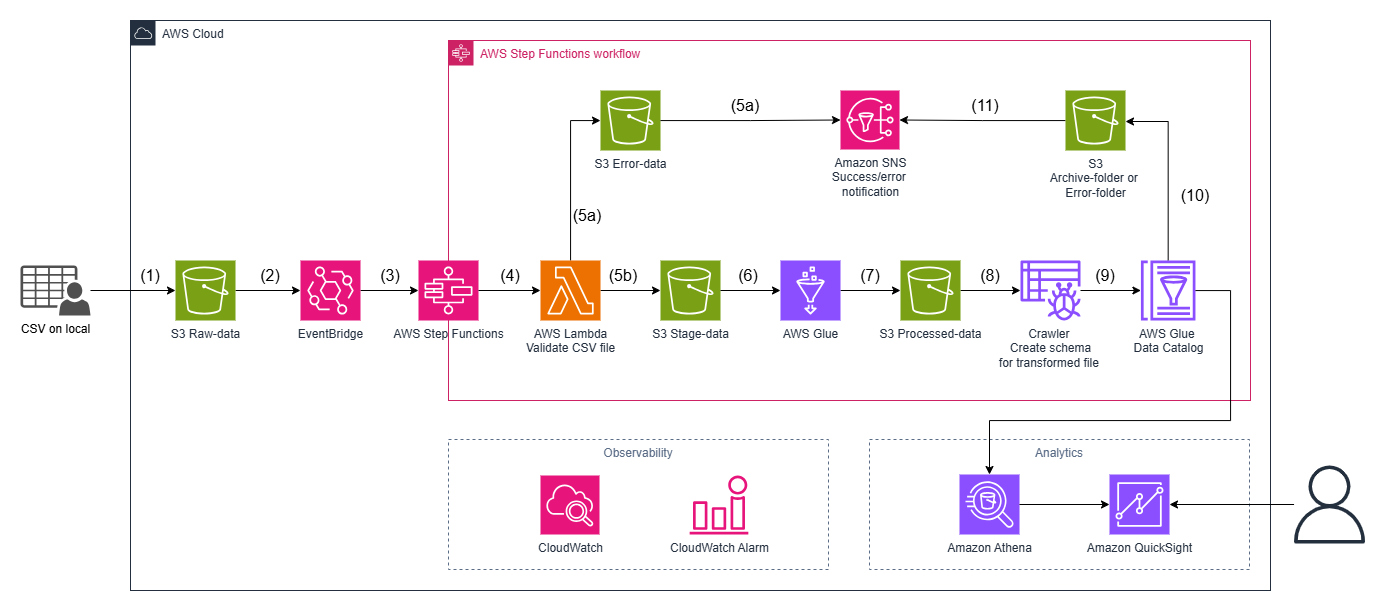
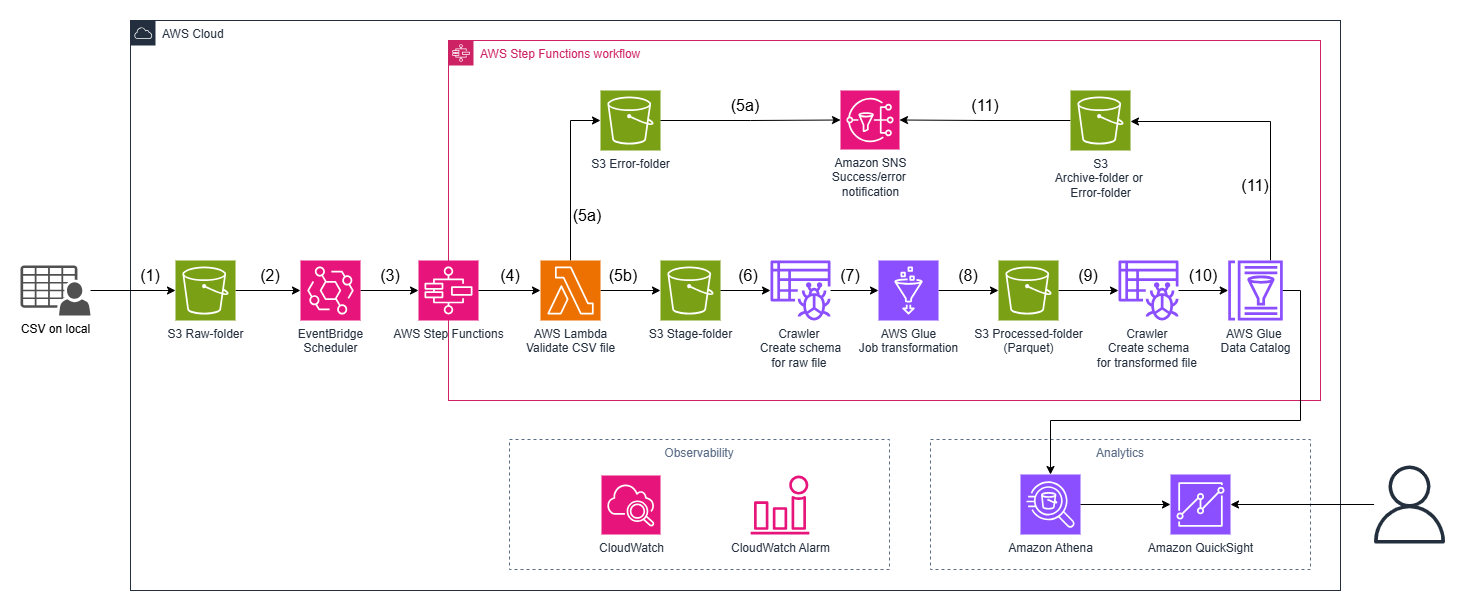
commit part1

diff --git a/docs/architecture.md b/docs/architecture.md
@@ -1,228 +1,246 @@
+# Architecture Documentation
+## ShopMart Sales Data Pipeline on AWS
+
+---
+
 # Part 1: Architecture Design
 
 ## Task 1.1: Architecture Diagram
 
 ### Architecture Overview
 
-The pipeline is designed as a fully event-driven, serverless architecture on AWS. It automatically processes CSV sales files uploaded by 50 stores each morning, validates data quality, transforms and aggregates the data, and makes results available for BI consumption — replacing the manual Excel process entirely.
+The ShopMart Sales Data Pipeline is a fully automated, event-driven data processing system built on AWS. It replaces the manual Excel-based workflow previously performed by the Business Intelligence team — reducing daily processing time from 3–4 hours to near real-time.
 
-**Diagram:** See `docs/architecture-diagram.png`
+The pipeline ingests raw CSV sales files uploaded by 50 stores each morning, validates and transforms the data, stores results in an analytics-optimized format, and exposes them to BI tools for querying and visualization. The entire orchestration is managed by AWS Step Functions, ensuring reliable sequencing, error handling, and observability across all stages.
 
----
+![architecture-diagram](architecture-diagram.png)
 
-### Data Flow: End-to-End
-
-```
-CSV on local
-    │
-    │ (1) Manual/automated upload
-    ▼
-S3 Raw-data bucket
-    │
-    │ (2) S3 Event Notification
-    ▼
-Amazon EventBridge
-    │
-    │ (3) Rule triggers workflow
-    ▼
-AWS Step Functions (Orchestrator)
-    │
-    │ (4) Invoke validation step
-    ▼
-AWS Lambda — Validate CSV file
-    │
-    ├─── (5a) Invalid file ──► S3 Error-data bucket
-    │                               │
-    │                               └──► Amazon SNS (error notification)
-    │
-    └─── (5b) Valid file ───► S3 Stage-data bucket
-                                    │
-                                    │ (6) Trigger ETL job
-                                    ▼
-                               AWS Glue (ETL Job)
-                                    │
-                                    │ (7) Write processed output
-                                    ▼
-                          S3 Processed-data bucket
-                                    │
-                                    │ (8) Trigger crawler
-                                    ▼
-                     Glue Crawler — Create/update schema
-                                    │
-                                    │ (9) Register table metadata
-                                    ▼
-                          AWS Glue Data Catalog
-                                    │
-                          ┌─────────┴──────────┐
-                          │ (Analytics layer)   │
-                          ▼                     ▼
-                    Amazon Athena        Amazon QuickSight
-                                    │
-                          (10) SNS success notification
-```
+**Key design principles:**
+- Event-driven ingestion triggered automatically on file upload
+- Separation of raw, staged, processed, and error data at the storage layer
+- Centralized orchestration via Step Functions for auditability and retry logic
+- Schema cataloging via AWS Glue for Athena compatibility
+- Observability through CloudWatch metrics, alarms, and SNS alerting
 
 ---
 
-### AWS Services Selection
+### AWS Services Used
 
-| Step | Service | Reason |
-|------|---------|--------|
-| **Ingestion** | **Amazon S3 (Raw)** | Durable, scalable object storage. Native event notification support. Cost-effective for storing raw CSV files with lifecycle policies. |
-| **Event trigger** | **Amazon EventBridge** | Decouples the S3 upload event from the processing workflow. Supports fine-grained filtering (e.g., only `.csv` files matching `store_*` pattern), retry policies, and dead-letter queues — more robust than direct S3→Lambda triggers for orchestration. |
-| **Orchestration** | **AWS Step Functions** | Manages the multi-step workflow (validate → transform → notify) with built-in error handling, retries, and state visibility. Avoids chaining Lambda functions directly, which is fragile and hard to monitor. |
-| **Validation** | **AWS Lambda** | Lightweight, fast execution for schema validation and data quality checks. Stateless and cost-efficient for short-lived tasks (< 15 min). Ideal for the validation step which does not require heavy compute. |
-| **Staging** | **Amazon S3 (Stage)** | Temporary holding area for validated files before ETL. Separates concerns between validation and transformation. |
-| **ETL / Transform** | **AWS Glue** | Managed Spark environment suited for processing 50 files × up to 5,000 rows. Handles deduplication, aggregation, and Parquet conversion natively. Scales automatically without managing servers. See ADR-002. |
-| **Processed storage** | **Amazon S3 (Processed)** | Stores output in Parquet format partitioned by date. Optimized for analytical queries via Athena. |
-| **Error storage** | **Amazon S3 (Error)** | Isolates bad records for auditing and reprocessing. Keeps the processed bucket clean. |
-| **Schema registry** | **AWS Glue Crawler + Data Catalog** | Automatically infers and registers the schema of processed Parquet files. Enables Athena and QuickSight to query data without manual DDL. |
-| **Query layer** | **Amazon Athena** | Serverless SQL on S3. No infrastructure to manage. Pay-per-query model is cost-efficient for BI team ad-hoc queries. |
-| **Visualization** | **Amazon QuickSight** | Native AWS BI tool with direct Athena integration. Supports scheduled dashboard refresh aligned with the daily pipeline run. |
-| **Notifications** | **Amazon SNS** | Sends success/failure alerts to the BI team via email or SMS. Triggered by Step Functions on both error paths and successful completion. |
-| **Observability** | **CloudWatch + CloudWatch Alarms** | Centralized logging for Lambda and Glue jobs. Alarms on error rates, job duration, and DLQ depth. |
+| Service | Purpose |
+|---|---|
+| **Amazon S3** | Multi-stage object storage: raw ingestion, staging, processed output, error isolation, and archiving |
+| **Amazon EventBridge Scheduler** | Triggers the Step Functions workflow on a scheduled basis aligned with the store upload window (6:00–8:00 AM daily) |
+| **AWS Step Functions** | Orchestrates the end-to-end pipeline workflow — sequencing Lambda, Glue, and Crawler steps with built-in error handling and retry |
+| **AWS Lambda** | Validates CSV file schema and data quality before processing; routes files to stage or error folder |
+| **AWS Glue (ETL Job)** | Performs data transformation: deduplication, null handling, `line_revenue` computation, and aggregation |
+| **AWS Glue Crawler** | Automatically infers and registers schema for both raw and transformed datasets into the Glue Data Catalog |
+| **AWS Glue Data Catalog** | Central metadata repository enabling Athena to query processed Parquet data without manual schema definition |
+| **Amazon SNS** | Sends success/error notifications to the BI team when pipeline completes or encounters critical failures |
+| **Amazon Athena** | Serverless SQL query engine over processed Parquet data in S3; used by analysts and BI tools |
+| **Amazon QuickSight** | BI visualization layer connecting to Athena for dashboards on daily revenue, top products, and payment metrics |
+| **Amazon CloudWatch** | Collects logs and metrics from Lambda, Glue, and Step Functions for operational monitoring |
+| **CloudWatch Alarms** | Triggers alerts on anomalies such as job failures, high error rates, or missing file uploads |
+
+---
+
+### Data Flow
+
+**1. Ingestion**
+
+1. Store staff upload CSV files from local systems to **S3 Raw-folder** following the naming convention `store_{store_id}_{YYYYMMDD}.csv`.
+2. **EventBridge Scheduler** fires at the configured time window (post 8:00 AM) to trigger the **AWS Step Functions** workflow, ensuring all store files have been uploaded before processing begins.
+3. Step Functions initiates the pipeline orchestration.
+
+**2. Validation & Staging**
+
+4. **AWS Lambda** is invoked to validate each CSV file — checking schema correctness (required columns, data types), detecting missing values, duplicate `order_id` entries, and negative quantities.
+5. Based on validation outcome:
+   - **(5a)** Files with critical schema errors are moved to **S3 Error-folder** and an **Amazon SNS** notification is sent to alert the BI team.
+   - **(5b)** Files passing validation are moved to **S3 Stage-folder** for downstream processing.
+
+**3. Processing**
+
+6. **AWS Glue Crawler** scans the Stage-folder and creates/updates the schema for raw files in the **Glue Data Catalog**.
+7. **AWS Glue ETL Job** reads staged data and performs:
+   - Removal of duplicate records
+   - Handling of missing values (null imputation or rejection)
+   - Computation of `line_revenue = quantity × unit_price`
+   - Aggregation of daily revenue, orders per customer, and payment success rate
+   - Separation of clean records from bad records
+8. Clean transformed data is written to **S3 Processed-folder** in **Parquet format** (columnar, compressed — optimized for Athena queries), partitioned by date using the path structure `processed/year=YYYY/month=MM/day=DD/`. This enables Athena partition pruning — queries scoped to a specific date range scan only the relevant partitions, reducing both query latency and cost.
+
+**4. Storage & Cataloging**
+
+9. A second **AWS Glue Crawler** scans the Processed-folder and registers the transformed schema in the **Glue Data Catalog**.
+10. The **Glue Data Catalog** makes the processed dataset queryable via Athena without manual DDL.
+11. After pipeline completion, **all files are moved out of the Raw-folder** — leaving it empty and ready for the next day's uploads:
+   - Files that passed validation and were successfully processed → moved to **S3 Archive-folder**
+   - Files that failed validation → moved to **S3 Error-folder**
+
+   SNS sends a final pipeline status notification. The Raw-folder will be empty after each run, ensuring no file is accidentally reprocessed on the next scheduled execution.
+
+**5. Consumption**
+
+- **Amazon Athena** queries the Parquet data in S3 Processed-folder using the Glue Data Catalog schema — enabling ad-hoc SQL analysis by the BI team.
+- **Amazon QuickSight** connects to Athena as a data source to render dashboards: daily revenue trends, top-selling products, payment success rates per store.
+
+**6. Observability**
+
+- **CloudWatch** aggregates logs from Lambda (validation errors), Glue (job metrics), and Step Functions (execution history).
+- **CloudWatch Alarms** monitor for job failures, elevated bad-record rates, and missing file uploads — triggering SNS alerts to the operations team.
 
 ---
 
 ## Task 1.2: Architecture Decision Records (ADRs)
 
-### ADR-001: Use Amazon EventBridge as the Pipeline Trigger
+---
+
+### ADR-1: Use Amazon EventBridge Scheduler for Daily Pipeline Trigger
 
 **Context:**
-The pipeline must start automatically whenever a new CSV file is uploaded to S3. With 50 stores uploading files in a 2-hour window (6:00–8:00 AM), the trigger mechanism needs to be reliable, filterable, and decoupled from the processing logic. A direct S3 event notification to Lambda or Step Functions is possible but tightly couples storage to compute.
+The pipeline must be triggered automatically once all 50 stores have completed their file uploads. The upload window is 6:00–8:00 AM daily. Triggering too early risks processing incomplete data; triggering on each individual file upload would cause 50 separate pipeline executions per day, increasing cost and complexity. A single, time-based trigger post-upload window is the most reliable approach.
 
 **Decision:**
-Use Amazon EventBridge with an S3 event source rule to trigger the Step Functions workflow. The rule filters on `s3:ObjectCreated:*` events where the object key matches the pattern `store_*_*.csv`, ensuring only valid store files initiate the pipeline.
+Use **Amazon EventBridge Scheduler** to trigger the AWS Step Functions execution once daily at a fixed time after the upload window closes (e.g., 8:15 AM). This ensures all store files are present in S3 Raw-folder before the pipeline begins, and consolidates processing into a single daily execution.
 
 **Alternatives Considered:**
-
-| Alternative | Reason Rejected |
-|-------------|-----------------|
-| S3 → Lambda (direct trigger) | Tightly couples S3 to Lambda. No built-in filtering by key pattern at the event level. Harder to add routing logic later. |
-| S3 → SQS → Lambda | Adds operational overhead. SQS is better suited when consumers need to pull at their own pace; here we want immediate push-based triggering. |
-| Scheduled EventBridge rule (cron) | Polling-based approach. Would process all files at a fixed time rather than reacting to each upload. Increases latency and complicates partial-failure handling. |
+- **S3 Event Notification → Lambda trigger on each upload:** Would fire 50 times per day (once per file), creating 50 independent pipeline runs. Difficult to coordinate aggregation across all stores and increases Step Functions execution costs.
+- **Amazon EventBridge Rules (event-based):** Can react to S3 PutObject events but requires additional logic to determine when all 50 files have arrived — adding complexity without clear benefit over a scheduled approach.
+- **AWS Lambda scheduled via CloudWatch Events (legacy):** Functionally equivalent but EventBridge Scheduler is the modern replacement with better timezone support, flexible scheduling expressions, and built-in retry on failed invocations.
 
 **Consequences:**
-- ✅ Loose coupling — S3 and Step Functions are independent; either can be replaced without affecting the other.
-- ✅ Fine-grained filtering — only files matching the naming convention trigger the pipeline, preventing accidental triggers from unrelated uploads.
-- ✅ Built-in retry and dead-letter queue support on the EventBridge rule.
-- ⚠ Slight added latency (~1–2 seconds) compared to a direct S3 trigger, which is acceptable given the batch nature of the workload.
-- ⚠ EventBridge has a limit of 300 rules per event bus by default — not a concern at 50 stores but worth noting for future scale.
+- Simple, predictable trigger with no dependency on individual file arrival events.
+- If a store uploads late (after 8:00 AM), their file will be missed in the scheduled run — requires a manual re-trigger or a separate late-file handling process.
+- EventBridge Scheduler supports timezone-aware cron expressions, making it straightforward to align with local business hours.
+- Failed invocations (e.g., IAM permission issues) are retried automatically by EventBridge Scheduler and logged to CloudWatch.
 
 ---
 
-### ADR-002: Use AWS Glue Instead of Lambda for ETL Processing
+### ADR-2: Store Processed Data in Parquet Format on S3
 
 **Context:**
-After validation, each CSV file must be cleaned (deduplication, null handling), enriched (`line_revenue = quantity * unit_price`), aggregated (daily revenue, top products, payment success rate), and written to S3 in an analytics-friendly format. Lambda has a 15-minute execution limit and 10 GB memory cap, which may be insufficient for large files (up to 5,000 rows × 50 files = 250,000 rows/day) and complex aggregations.
+The BI team needs to run analytical queries (daily revenue, top products, payment success rate) over data accumulated from 50 stores. The output format must be compatible with Athena and QuickSight, and must support efficient querying without full table scans.
 
 **Decision:**
-Use AWS Glue (PySpark ETL job) for the transformation step. Glue provides a managed Apache Spark environment that scales horizontally, supports native Parquet output, and integrates directly with the Glue Data Catalog for automatic schema registration.
+Write all processed output to **Amazon S3 in Apache Parquet format**, partitioned by `order_date` and `store_id`. Register the schema in **AWS Glue Data Catalog** for Athena access.
 
 **Alternatives Considered:**
-
-| Alternative | Reason Rejected |
-|-------------|-----------------|
-| AWS Lambda (Python + pandas) | 15-minute timeout and memory limits are risky for large files. Pandas is not distributed — cannot scale horizontally. Dependency packaging (pandas, pyarrow) adds complexity. |
-| AWS EMR | Significantly higher cost and operational overhead for this data volume. Cluster startup time (3–5 min) adds latency. Overkill for 250K rows/day. |
-| AWS Glue DataBrew | Visual, no-code tool — less flexible for custom aggregation logic. Cannot be version-controlled as cleanly as a PySpark script. |
-| ECS / Fargate (containerized Python) | More control but requires container management, ECR, and task definition maintenance. No native Data Catalog integration. |
+- **CSV in S3:** Human-readable but inefficient for analytical queries — no columnar compression, no predicate pushdown. Athena costs scale with data scanned.
+- **Amazon RDS / Aurora:** Relational databases support SQL queries but are not cost-effective for append-only analytical workloads. Requires schema management and ongoing instance costs.
+- **Amazon Redshift:** Excellent for large-scale analytics but introduces significant infrastructure overhead and cost for a dataset of this size (~50 files × 5,000 rows/day).
 
 **Consequences:**
-- ✅ Handles current and future data volume without code changes — just adjust DPU allocation.
-- ✅ Native integration with Glue Data Catalog — schema is registered automatically after each run.
-- ✅ Built-in job bookmarking to avoid reprocessing already-handled files (supports BR-7).
-- ⚠ Glue job startup time is ~1–2 minutes (cold start for Spark context). Acceptable for a daily batch pipeline but not suitable for real-time use cases.
-- ⚠ Higher cost per run compared to Lambda for very small files. Mitigated by using Glue's 1/16 DPU (Flex execution) for non-urgent jobs.
+- Parquet's columnar compression reduces S3 storage costs and Athena query costs significantly.
+- Partitioning by date and store enables partition pruning — queries scoped to a date range avoid scanning the full dataset.
+- Requires Glue Crawler to maintain schema registration; adds a step to the pipeline but is fully automated.
+- Parquet is not human-readable — raw/error files are retained in CSV for manual inspection if needed.
 
 ---
 
-### ADR-003: Store Processed Data in Parquet Format
+### ADR-3: Use AWS Lambda for CSV Validation Before ETL
 
 **Context:**
-Processed data must be stored in a format suitable for analytics queries (BR-4) and accessible by BI tools like QuickSight (BR-6). The BI team will run queries such as daily revenue aggregations, top product rankings, and payment success rates — typically column-oriented access patterns on large datasets.
+<cite index="1-5">Input files may contain data quality issues including missing values, duplicates, and negative quantities.</cite> Running a full Glue ETL job on a malformed or structurally invalid file wastes compute resources and produces misleading partial outputs. Validation must be fast, cheap, and capable of routing bad files before they enter the transformation stage.
 
 **Decision:**
-Store all processed output in Apache Parquet format, partitioned by `order_date` (e.g., `s3://processed/year=2024/month=01/day=15/`). Use Snappy compression. Register the schema in the Glue Data Catalog so Athena can query it directly.
+Use a dedicated **AWS Lambda function** as the first processing step to validate each CSV file's schema (column names, data types, row count sanity) and flag critical quality issues. Lambda routes files to either the Stage-folder (pass) or Error-folder (fail) and triggers SNS notification on critical failures.
 
 **Alternatives Considered:**
-
-| Alternative | Reason Rejected |
-|-------------|-----------------|
-| CSV (plain text) | No compression, no columnar optimization. Full table scans on every query — expensive with Athena (pay per byte scanned). No schema enforcement. |
-| JSON / NDJSON | Verbose format, larger file size than Parquet. Row-oriented — inefficient for column-selective analytical queries. |
-| ORC | Also columnar and compressed, but Parquet has broader ecosystem support (Athena, Glue, Spark, pandas all prefer Parquet). Less tooling friction. |
-| Delta Lake / Iceberg | Adds ACID transaction support and time-travel, but introduces significant complexity. Not justified for an append-only daily batch pipeline at this scale. |
+- **Validate inside the Glue Job:** Possible, but Glue has a minimum billing duration (~1 minute DPU) and a cold start overhead. Using Glue for lightweight validation is cost-inefficient.
+- **AWS Glue DataBrew:** Provides visual data quality rules but adds cost per node-hour and is less flexible for custom validation logic (e.g., checking filename convention, store ID format).
+- **No pre-validation (validate in Glue only):** Risks propagating bad data into the processed layer if Glue error handling is misconfigured. Harder to isolate the root cause of failures.
 
 **Consequences:**
-- ✅ 60–90% storage reduction compared to CSV due to columnar compression.
-- ✅ Athena query costs reduced significantly — only columns referenced in the query are scanned.
-- ✅ Partition pruning on `order_date` means daily queries scan only the relevant partition, not the entire dataset.
-- ✅ QuickSight can connect directly via Athena with no additional transformation.
-- ⚠ Parquet files are not human-readable — debugging requires Athena, Glue, or a local Parquet reader.
-- ⚠ Small file problem: if each store produces a separate Parquet file, Athena performance degrades. Mitigated by having the Glue job merge all store files for a given day into a single partitioned output.
+- Lambda provides sub-second validation at minimal cost (~$0.0000002 per invocation).
+- Clear separation of concerns: Lambda owns validation, Glue owns transformation.
+- Lambda has a 15-minute execution limit — sufficient for validating a single CSV file (500–5,000 rows), but not suitable for large-scale transformation.
+- Validation logic must be maintained separately from ETL logic; changes to the schema require updates in both Lambda and Glue.
 
 ---
 
 ## Task 1.3: Failure Scenarios
 
-### Scenario 1: Malformed or Corrupt CSV File
+---
+
+### Scenario 1: CSV File Fails Schema Validation
 
 **What happens?**
-A store uploads a CSV file with incorrect column names, wrong data types, or encoding issues (e.g., UTF-16 instead of UTF-8). The Lambda validation step fails to parse the file.
+A store uploads a CSV file with missing required columns (e.g., `unit_price` is absent), incorrect data types (e.g., `order_date` formatted as `DD/MM/YYYY` instead of `YYYY-MM-DD`), or a malformed header row. The Lambda validation function detects the structural issue.
 
 **How does the system detect it?**
-The Lambda function performs schema validation on every file: checks for required columns (`order_id`, `customer_id`, `product_id`, `order_date`, `quantity`, `unit_price`, `payment_status`), validates data types, and checks file encoding. Any failure raises a structured exception caught by Step Functions.
+The Lambda function checks for required column presence, data type conformance, and basic row integrity on every file before it proceeds to staging. If validation fails, the function returns a failure status to Step Functions.
 
 **Recovery strategy:**
-Step Functions routes the file to the `S3 Error-data` bucket with a metadata tag indicating the failure reason. The original file is preserved in `S3 Raw-data` for manual inspection. The pipeline continues processing other files — one bad file does not block the rest.
+Step Functions transitions to the error branch: the file is moved from Raw-folder to S3 Error-folder with a timestamped error log. The pipeline continues processing remaining valid files. The store is expected to re-upload a corrected file; the pipeline can be re-triggered manually or on the next scheduled run.
 
 **Who needs to be notified?**
-SNS sends an alert to the BI team and the store operations team, including the store ID, filename, and error description. The store is expected to re-upload a corrected file.
+- **BI / Data Engineering team** via SNS email/SMS alert with the filename, store ID, and error description.
+- Optionally, the store operations team if a store-level notification channel is configured.
 
 ---
 
 ### Scenario 2: AWS Glue ETL Job Failure
 
 **What happens?**
-The Glue job fails mid-execution due to an out-of-memory error, a Spark exception on unexpected data values (e.g., non-numeric `unit_price`), or a transient AWS service issue.
+The Glue ETL job encounters an unhandled exception during transformation — for example, a data type casting error on an edge-case record, an out-of-memory condition on an unusually large file batch, or a transient AWS service error.
 
 **How does the system detect it?**
-Step Functions monitors the Glue job status via the `GlueStartJobRun` + `GlueGetJobRun` integration. If the job transitions to `FAILED` or `ERROR` state, Step Functions catches the error and transitions to the failure branch.
+Step Functions monitors the Glue job execution status. If the job transitions to `FAILED` or `TIMEOUT` state, Step Functions catches the error via its `Catch` block and transitions to the failure handling state. CloudWatch Logs captures the full Glue job error output.
 
 **Recovery strategy:**
-Step Functions retries the Glue job up to 2 times with exponential backoff (supports BR-8). If all retries are exhausted, the staged file remains in `S3 Stage-data` (not deleted) so the job can be manually re-triggered or automatically retried in the next pipeline run. Glue job bookmarking ensures already-processed records are not duplicated on retry.
+Step Functions retries the Glue job up to a configured number of attempts (e.g., 2 retries with exponential backoff) before marking the execution as failed. On final failure, the staged files are moved to S3 Error-folder and an SNS alert is sent. The Data Engineering team investigates CloudWatch Logs, fixes the root cause, and re-runs the Step Functions execution manually for the affected date partition.
 
 **Who needs to be notified?**
-SNS sends an alert to the data engineering team with the job run ID, error message, and affected file. CloudWatch Alarm triggers if the Glue job failure rate exceeds a threshold within a time window.
+- **Data Engineering team** via SNS alert with execution ARN, job name, error message, and affected date.
+- **BI team** if the failure means daily metrics will not be available by the expected time.
 
 ---
 
-### Scenario 3: Missing Store Files (Incomplete Daily Upload)
+### Scenario 3: Missing or Delayed File Upload from a Store
 
 **What happens?**
-One or more stores fail to upload their CSV file during the 6:00–8:00 AM window due to network issues, store system downtime, or human error. The pipeline processes only the files that arrived, resulting in incomplete daily aggregations.
+One or more stores fail to upload their CSV file within the expected window (6:00–8:00 AM). This could be due to network issues at the store, a local system failure, or human error. When the pipeline runs, it processes only the files present — silently omitting the missing store's data from daily aggregations.
 
 **How does the system detect it?**
-A scheduled EventBridge rule triggers a Lambda function at 8:30 AM (after the upload window closes) to audit the `S3 Raw-data` bucket. It compares the list of received files against the expected list of 50 store IDs for the current date. Any missing store IDs are flagged.
+A CloudWatch Alarm or a post-pipeline Lambda check compares the number of files processed against the expected count (50 stores). If the count is below threshold (e.g., fewer than 45 files), the alarm triggers. Alternatively, a file presence check can be embedded as a Step Functions state that validates expected store IDs before proceeding.
 
 **Recovery strategy:**
-The audit Lambda publishes a report of missing stores to SNS. The daily aggregation job proceeds with available data and marks the output with a `partial=true` metadata flag so downstream consumers (Athena, QuickSight) can identify incomplete days. When the missing store uploads its file late, the pipeline reprocesses it and updates the aggregation for that day.
+The pipeline proceeds with available files and completes normally. The missing store's data is flagged in the processing summary log. Once the store uploads the delayed file (outside the normal window), a manual or on-demand Step Functions execution can be triggered to process the late file and update the aggregations for that date partition.
 
 **Who needs to be notified?**
-SNS notifies the BI team and store operations team with the list of missing store IDs. The BI team is aware that the day's dashboard may show incomplete data until all files are received.
+- **BI team** via SNS alert listing the missing store IDs so they are aware that daily totals are incomplete.
+- **Store operations / IT team** for the affected store(s) to investigate the upload failure.
 
 ---
 
-### Scenario 4: S3 Bucket Unavailable or Permission Denied
+### Scenario 4: S3 Event / EventBridge Trigger Failure
 
 **What happens?**
-A misconfigured IAM policy change or an S3 service disruption causes the Lambda or Glue job to fail when attempting to read from `S3 Stage-data` or write to `S3 Processed-data`.
+The EventBridge Scheduler fails to trigger the Step Functions execution — due to a misconfigured schedule rule, an IAM permission issue on the EventBridge-to-StepFunctions role, or a transient AWS service disruption. The pipeline does not run despite files being present in the Raw-folder.
 
 **How does the system detect it?**
-Lambda and Glue jobs throw `AccessDeniedException` or `NoSuchBucket` errors, which are caught by Step Functions error handlers. CloudWatch Logs capture the full error stack trace.
+CloudWatch Metrics for Step Functions will show zero executions started for the expected time window. A CloudWatch Alarm on `ExecutionsStarted` count below 1 within the scheduled window will fire. EventBridge also emits failed invocation events to CloudWatch Logs.
 
 **Recovery strategy:**
-Step Functions transitions to the error state and sends an SNS alert immediately — no retries are attempted for permission errors (retrying would not resolve the root cause). For transient S3 service issues, Step Functions retries with backoff. The IAM team is alerted to review recent policy changes via CloudTrail audit logs.
+The Data Engineering team is alerted and manually triggers the Step Functions execution via the AWS Console or CLI, pointing it at the files already present in the Raw-folder. The root cause (IAM policy, schedule expression) is corrected and the schedule is re-enabled. No data is lost as files remain in S3.
 
 **Who needs to be notified?**
-SNS alerts the data engineering team and cloud infrastructure team. For `AccessDeniedException`, the alert includes the IAM principal and the denied action to accelerate diagnosis.
+- **Data Engineering team** via CloudWatch Alarm → SNS for immediate investigation.
+- **BI team** if the delay impacts the availability of daily reports.
+
+---
+
+### Scenario 5: Athena Query Failure Due to Schema Mismatch
+
+**What happens?**
+A change in the upstream CSV format (e.g., a new column added, a column renamed) causes the Glue Crawler to update the schema in the Data Catalog in a way that is incompatible with existing Athena saved queries or QuickSight datasets. Athena queries begin returning errors or incorrect results.
+
+**How does the system detect it?**
+Athena query failures are logged in CloudWatch. QuickSight dataset refresh failures surface in the QuickSight console. A post-pipeline validation step (optional Lambda) can run a smoke-test Athena query after each pipeline execution and alert on failure.
+
+**Recovery strategy:**
+The Data Engineering team reviews the Glue Data Catalog for schema drift, rolls back to the previous table version if needed (Glue supports schema versioning), and coordinates with store operations to enforce the canonical CSV schema. Athena table definitions are updated to accommodate the new schema if the change is intentional.
+
+**Who needs to be notified?**
+- **Data Engineering team** via CloudWatch Alarm or post-pipeline validation alert.
+- **BI team** to pause report distribution until schema consistency is restored.
